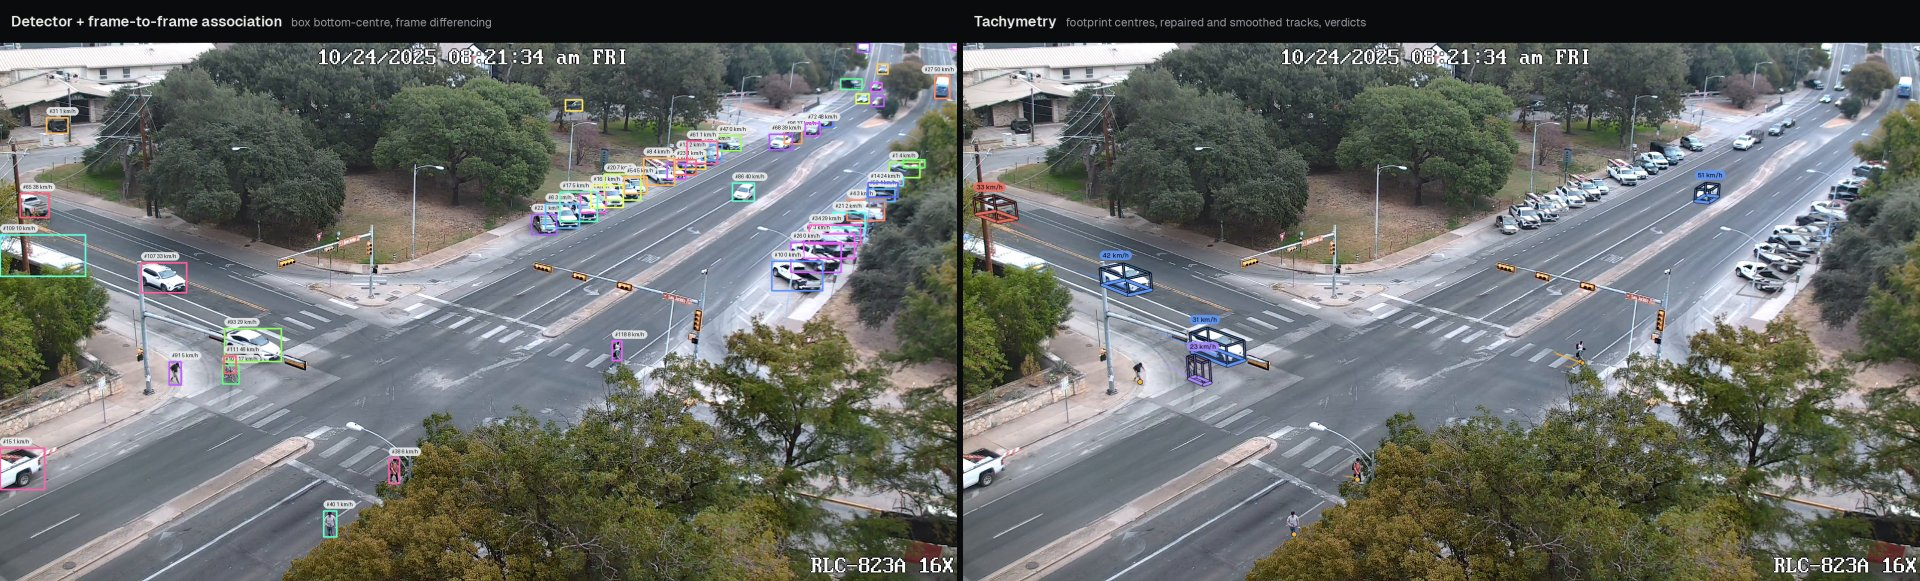
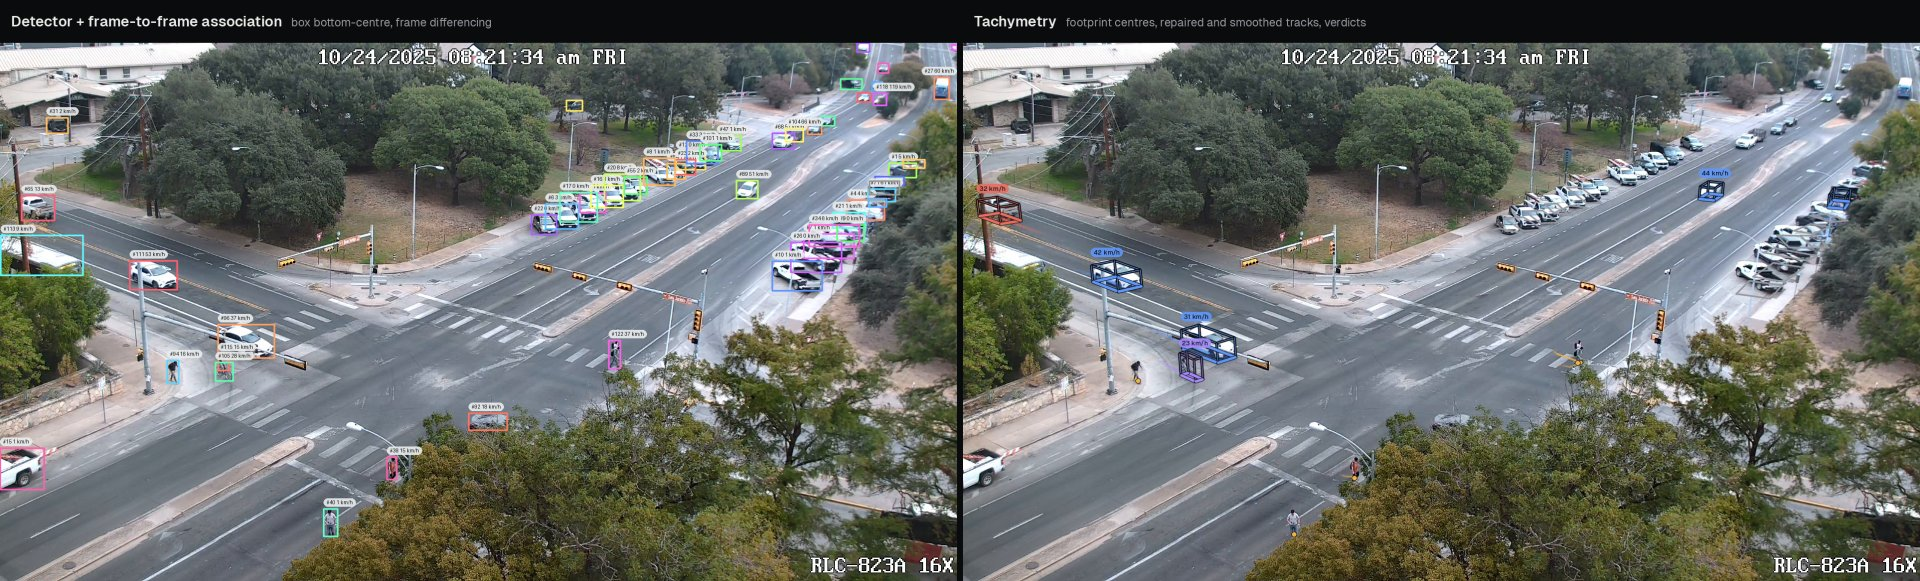
Refresh the documented runs for the class evidence and the silhouette car selection
Sample results, examples, verdict counts, calibration tables and figures are
regenerated with the commands shown in the docs. Dhaka: 208 motorcycles, 45
cars, 21 bicycles and 8 trucks, with 34 riders; intersection-day 27.4 to 27.6 m
from its silhouettes; motorway 8.4 m, with dashes of 2.85 to 3.16 m.

diff --git a/docs/docs/examples/intersection.md b/docs/docs/examples/intersection.md
@@ -30,10 +30,10 @@ print(run.report["timings"])
 ```text
 svbrd-llm-roadside-video-av by Ryan-xiangyu-ut (Hugging Face), CC BY 4.0, https://huggingface.co/datasets/Ryan-xiangyu-ut/svbrd-llm-roadside-video-av
 {'calibration.hfov_deg': 47.5}
-f=2181.8px (hfov 47.5 deg), height=27.21 m, pitch=17.88 deg, roll=-0.01 deg, yaw=134.0 deg, lens=identity
+f=2181.8px (hfov 47.5 deg), height=27.62 m, pitch=17.88 deg, roll=-0.01 deg, yaw=134.0 deg, lens=identity
 auto:fov+vp
-{'tracks': 50, 'by_class': {'person': 8, 'car': 29, 'bus': 2, 'bicycle': 2, 'truck': 9}, 'moving_by_class': {'bus': 2, 'car': 17, 'bicycle': 2, 'person': 7, 'truck': 3}, 'parked_by_class': {'car': 12, 'truck': 6}, 'rejected': {'rider': 2, 'ghost': 2, 'duplicate': 1}, 'vehicle_speed_kmh': {'median': 24.65, 'p85': 34.62, 'max': 58.59}}
-{'detect_s': 55.88, 'calibrate_s': 23.29, 'track_s': 41.34, 'render_s': 24.5, 'total_s': 145.22}
+{'tracks': 49, 'by_class': {'person': 8, 'car': 29, 'bus': 2, 'bicycle': 2, 'truck': 8}, 'moving_by_class': {'bus': 2, 'car': 17, 'bicycle': 2, 'person': 7, 'truck': 3}, 'parked_by_class': {'car': 12, 'truck': 5}, 'rejected': {'rider': 2, 'ghost': 1, 'duplicate': 1}, 'vehicle_speed_kmh': {'median': 24.83, 'p85': 34.91, 'max': 59.32}}
+{'detect_s': 55.1, 'calibrate_s': 24.84, 'track_s': 42.71, 'render_s': 24.81, 'total_s': 147.68}
 ```
 
 The run uses the default detector, SAM 3, whose instance masks give the vehicle footprints ([Vehicle footprints from masks](../guide/footprints.md)) and the metric scale of the calibration. `tachymetry demo` applies the sample's overrides itself; with `tm.track`, the field of view is passed as `calibration__hfov_deg`.
@@ -41,7 +41,7 @@ The run uses the default detector, SAM 3, whose instance masks give the vehicle 
 Calibration:
 
 * *Candidate.* The known field of view (47.5°) and the main ground vanishing point give the orientation (`fov+vp`, [Automatic calibration](../guide/auto-calibration.md)): a camera pitched 17.9° down.
-* *Scale.* The vehicle silhouettes place it 27.2 m above the road. The camera packaged for the five intersection clips, calibrated once, is 27.7 m high; see [Camera calibration](../guide/calibration.md) for the spread between calibrations of one camera.
+* *Scale.* The vehicle silhouettes place it 27.6 m above the road. The camera packaged for the five intersection clips, calibrated once, is 27.7 m high; see [Camera calibration](../guide/calibration.md) for the spread between calibrations of one camera.
 
 The run directory now holds the files described in [Outputs](../guide/outputs.md):
 
@@ -91,33 +91,32 @@ print(counts)
 
 ```text
 state    moving  parked  stationary
-class
+class                              
 bicycle       2       0           0
 bus           2       0           0
 car          17      12           0
 person        7       0           1
-truck         3       6           0
- id  class   verdict                reason
-  7 person     rider  riding two-wheeler 6
- 29 person     ghost             too short
- 33  truck duplicate       duplicate of 23
- 43 person     rider riding two-wheeler 41
- 46    car     ghost             too short
-count    2177.0
-mean       25.2
-std         9.6
-min         3.2
+truck         3       5           0
+ id  class   verdict                          reason
+  7 person     rider bike detection under the person
+ 28 person     ghost                       too short
+ 32  truck duplicate                 duplicate of 22
+ 42 person     rider bike detection under the person
+count    2182.0
+mean       25.4
+std         9.9
+min         3.0
 15%        15.0
-50%        24.6
-85%        34.6
-max        58.6
+50%        24.8
+85%        34.9
+max        59.3
 {'+x': 8, '-x': 2}
 ```
 
 Notes on the result:
 
-* The two riders are the persons on the two bicycles; they are counted once, as cyclists ([Verdicts](../guide/verdicts.md#riders-inferred-cyclists-and-passengers)).
-* Twelve parked cars and six parked trucks are reported with zero speed; they do not enter the speed statistics.
+* The two riders are the persons on the two bicycles: a `bike` detection lies under each of them, and they are counted once, as cyclists ([Verdicts](../guide/verdicts.md#riders-inferred-cyclists-and-passengers)). The bicycles themselves are classed from their `bike` evidence ([class vote](../guide/tracking.md#class-vote)).
+* Twelve parked cars and five parked trucks (pickups) are reported with zero speed; they do not enter the speed statistics.
 * The world frame of an automatic calibration has $+x$ along the best-supported lane-line direction. Without cuboid footprints the origin stays below the camera, so the main road runs along $x$ at $y \approx 41$ to $53$ m in this clip (traffic in $+x$ near 42 m, in $-x$ near 52 m). For counts at a specific location, define the screen line in this frame, or calibrate manually against a georeferenced reference to work in map coordinates ([Manual calibration](../guide/manual-calibration.md)).
 * The spot speeds are samples at 15 Hz, so longer tracks weigh more. For one value per vehicle use `tracks_summary.csv` (`speed_median_kmh`, `speed_p85_kmh`).
 
@@ -137,7 +136,7 @@ print(run.report["timings"], run.summary()["vehicle_speed_kmh"])
 ```
 
 ```text
-{'detect_s': 0.03, 'calibrate_s': 0.01, 'track_s': 40.92, 'total_s': 41.18} {'median': 24.81, 'p85': 34.85, 'max': 57.8}
+{'detect_s': 0.03, 'calibrate_s': 0.01, 'track_s': 41.49, 'total_s': 41.75} {'median': 25.09, 'p85': 35.25, 'max': 59.22}
 ```
 
-A shorter smoothing window follows speed changes faster at the cost of more noise ([Bird's-eye view and speed](../guide/bev-speed.md#speed)); on this clip the median and 85th-percentile vehicle speeds move by 0.16 and 0.23 km/h.
+A shorter smoothing window follows speed changes faster at the cost of more noise ([Bird's-eye view and speed](../guide/bev-speed.md#speed)); on this clip the median and 85th-percentile vehicle speeds move by 0.26 and 0.34 km/h.

diff --git a/docs/docs/limitations.md b/docs/docs/limitations.md
@@ -45,10 +45,10 @@ Detection recall degrades at night. Runs of the default pipeline on two clips of
 
 | Clip | Duration | Detections | Tracks kept | Tracks by class |
 |---|---|---|---|---|
-| `intersection-day` | 31.0 s | 23,443 | 49 | 28 car, 9 truck, 2 bus, 2 bicycle, 8 person |
-| `intersection-night` | 18.5 s | 2,010 | 8 | 8 car |
+| `intersection-day` | 31.0 s | 23,491 | 50 | 30 car, 8 truck, 2 bus, 2 bicycle, 8 person |
+| `intersection-night` | 18.5 s | 2,011 | 8 | 8 car |
 
-Traffic volumes differ between the recordings, so the comparison is indicative only. On the infrared night clip, no pedestrian or cyclist track was kept. Calibrated on its own, the night clip gives a camera 33.4 m high at a pitch of 22.2°, against 27.7 m and 17.9° for the day clip ([Calibration verification](guide/calibration.md#calibration-verification)), because road markings are visible mainly where they are lit. For cameras that record in both conditions, calibrate on daytime footage and pass the camera file to the night runs, as the sample registry does.
+Traffic volumes differ between the recordings, so the comparison is indicative only. On the infrared night clip, no pedestrian or cyclist track was kept. Calibrated on its own, the night clip gives a camera 34.4 m high at a pitch of 22.2°, against 27.4 m and 17.9° for the day clip ([Calibration verification](guide/calibration.md#calibration-verification)), because road markings are visible mainly where they are lit. For cameras that record in both conditions, calibrate on daytime footage and pass the camera file to the night runs, as the sample registry does.
 
 ## Moving, PTZ and re-zoomed cameras
 
@@ -70,7 +70,7 @@ Process straight-down footage with a known camera: pitch 90°, the height from t
 
 ## Mixed traffic and class-dependent scale
 
-The class scheme has six road classes (person, bicycle, car, motorcycle, bus, truck), and regional vehicle types fall outside it. On the straight-down sample, SAM 3's class-evidence prompts label most cycle-rickshaws and auto-rickshaws `motorcycle`, which gives 222 motorcycle tracks against 1 bicycle track. Counts by class and the class-dependent parameters (the person and two-wheeler speed gates, the dimension priors) apply to these vehicles as labelled.
+The class scheme has six road classes (person, bicycle, car, motorcycle, bus, truck), and regional vehicle types fall outside it. On the straight-down sample, cycle-rickshaws and rickshaw vans receive almost no evidence from any class prompt; their car fits stay at the smallest car, so the size rule makes them two-wheelers (18 bicycles, and motorcycles where the `motorcycle` prompt scored them higher than `bike`), and CNG auto-rickshaws with `car` or `van` evidence remain cars ([class vote](guide/tracking.md#class-vote)). The two carriages of a passing train are labelled `truck`. Counts by class and the class-dependent parameters (the person and two-wheeler speed gates, the dimension priors) apply to these vehicles as labelled.
 
 The vehicle-size scale assumes that the `car` class is dominated by passenger cars ([Metric scale](guide/calibration.md#metric-scale)): the silhouette scale fits a rigid passenger-car model, and the cuboid footprint scale a median footprint of 4.6 m by 1.85 m. Where a detector maps other vehicles to `car`, such as three-wheelers of about 2.6 m or microcars, the scale inherits their size, and all distances and speeds are multiplied by the ratio of the model to their dimensions. In such traffic, supply the scale from elsewhere:
 
@@ -122,7 +122,7 @@ A scene with a single marked direction and no vertical structure, such as a stra
 
 ## Per-clip variance of automatic calibration
 
-Automatic calibration of one clip is a single estimate with clip-dependent evidence: visible markings, traffic, lighting. The five intersection samples come from one camera pose; their backgrounds register within 4.2 px, except the infrared night clip at 12.4 px. Calibrated separately with the same 47.5° field of view, they give camera heights from 26.3 to 33.4 m, pitches from 17.6° to 22.2° and rolls from −2.5° to 3.6° ([Calibration verification](guide/calibration.md#calibration-verification)). A height error enters all distances and speeds in proportion. For a fixed camera, calibrate once on the clip with the clearest evidence and pass the camera file to its other clips, as the sample registry does with `assets/cameras/svbrd-intersection.json`; compare speeds between sites only after checking their calibrations.
+Automatic calibration of one clip is a single estimate with clip-dependent evidence: visible markings, traffic, lighting. The five intersection samples come from one camera pose; their backgrounds register within 4.2 px, except the infrared night clip at 12.4 px. Calibrated separately with the same 47.5° field of view, they give camera heights from 26.6 to 34.4 m, pitches from 17.6° to 22.2° and rolls from −2.5° to 3.6° ([Calibration verification](guide/calibration.md#calibration-verification)). A height error enters all distances and speeds in proportion. For a fixed camera, calibrate once on the clip with the clearest evidence and pass the camera file to its other clips, as the sample registry does with `assets/cameras/svbrd-intersection.json`; compare speeds between sites only after checking their calibrations.
 
 ## Runtime of the mask geometry
 

diff --git a/docs/docs/examples/custom-detector.md b/docs/docs/examples/custom-detector.md
@@ -4,7 +4,7 @@ The pipeline accepts object detectors that map frames to boxes in the road-user 
 
 ## The detector contract
 
-A `Detector` is called with a list of BGR `uint8` images (`H × W × 3`, as decoded by OpenCV) and returns one tuple per image, with four elements, or five when it segments:
+A `Detector` is called with a list of BGR `uint8` images (`H × W × 3`, as decoded by OpenCV) and returns one tuple per image, with four elements, five when it segments, or six with class evidence:
 
 | Element | Shape and type | Meaning |
 |---|---|---|
@@ -13,6 +13,7 @@ A `Detector` is called with a list of BGR `uint8` images (`H × W × 3`, as deco
 | `cls` | `(N,)` `int16` | index into `class_names` |
 | `cuboid` | `(N, 8, 3)` `float32` or `None` | projected cuboid corners `x, y, confidence`: corners 0 to 3 on the ground with 0 and 3 forming the front face and 0-1 a long side, corners 4 to 7 above them; NaN for untrusted cuboids |
 | `masks` (optional) | list of `N` entries, or `None` | one instance mask per detection as `(x0, y0, mask)` with a boolean `mask` cropped to the box (`tachymetry.detections.crop_mask` crops a full-frame mask), or `None` for a detection without one |
+| `evidence` (optional) | `(N, E)` `float32` | class evidence per detection, with the column names in the attribute `evidence_names`; with the columns of `tachymetry.detect.sam3.EVIDENCE_COLUMNS`, track classes, riders and passengers are decided as for SAM 3 ([class vote](../guide/tracking.md#class-vote)) |
 
 Set the class attributes `class_names` (use `tachymetry.config.ROAD_CLASSES` so that class priors, super-classes, colours and calibration apply), `provides_cuboids`, `provides_masks` and `name`. Boxes with scores down to `TrackerConfig.low_conf = 0.10` are useful: they extend existing tracks in the second association stage but never start one ([Association](../guide/tracking.md#online-association)).
 
@@ -71,15 +72,15 @@ print(run.report["timings"])
 ```
 
 ```text
-{'tracks': 58, 'by_class': {'car': 37, 'person': 14, 'motorcycle': 1, 'truck': 3, 'bus': 2, 'bicycle': 1}, 'moving_by_class': {'car': 23, 'motorcycle': 1, 'person': 10, 'bus': 2, 'bicycle': 1}, 'parked_by_class': {'car': 14, 'truck': 3}, 'rejected': {'rider': 2, 'duplicate': 22, 'invalid': 1, 'ghost': 5}, 'vehicle_speed_kmh': {'median': 23.89, 'p85': 34.09, 'max': 50.17}}
-{'detect_s': 9.14, 'calibrate_s': 6.24, 'track_s': 5.54, 'total_s': 21.2}
+{'tracks': 57, 'by_class': {'car': 37, 'person': 14, 'motorcycle': 1, 'truck': 2, 'bus': 2, 'bicycle': 1}, 'moving_by_class': {'car': 22, 'motorcycle': 1, 'person': 10, 'bus': 2, 'bicycle': 1}, 'parked_by_class': {'car': 15, 'truck': 2}, 'rejected': {'rider': 2, 'duplicate': 21, 'invalid': 1, 'ghost': 7}, 'vehicle_speed_kmh': {'median': 24.81, 'p85': 35.78, 'max': 50.91}}
+{'detect_s': 9.25, 'calibrate_s': 6.17, 'track_s': 5.5, 'total_s': 21.12}
 ```
 
 Three details of this example matter in general:
 
-* **Camera.** A box-only detector provides no instance masks, so automatic calibration has no vehicle-silhouette scale ([Detectors without masks](../guide/detection.md#detectors-without-masks)). The example reuses the camera that the default pipeline calibrated in the [end-to-end example](intersection.md); `calibrate_s` is then only the background estimation. Alternatively give a metric cue, e.g. `cfg.calibration.scale = "height=27.2"`, or calibrate manually.
+* **Camera.** A box-only detector provides no instance masks, so automatic calibration has no vehicle-silhouette scale ([Detectors without masks](../guide/detection.md#detectors-without-masks)). The example reuses the camera that the default pipeline calibrated in the [end-to-end example](intersection.md); `calibrate_s` is then only the background estimation. Alternatively give a metric cue, e.g. `cfg.calibration.scale = "height=27.6"`, or calibrate manually.
 * **Cache key.** The detection cache key is computed from `cfg.detector` and `rate_hz`, not from the detector object. A distinct `detector.name`, or a fresh output directory, prevents the pipeline from reusing detections of another detector cached in the same directory.
-* **Duplicates.** torchvision applies non-maximum suppression per label, so one vehicle often yields overlapping `car` and `truck` boxes. The tracker gates by super-class, so both boxes enter one association problem, and the duplicate verdict removed 22 tracks in this run ([Verdicts](../guide/verdicts.md#duplicates)). Cross-label suppression inside the detector (for example `nms_by_group`) removes them earlier.
+* **Duplicates.** torchvision applies non-maximum suppression per label, so one vehicle often yields overlapping `car` and `truck` boxes. The tracker gates by super-class, so both boxes enter one association problem, and the duplicate verdict removed 21 tracks in this run ([Verdicts](../guide/verdicts.md#duplicates)). Cross-label suppression inside the detector (for example `nms_by_group`) removes them earlier.
 
 Without masks, vehicle centres come from the box-contact model with class priors instead of the mask geometry; [Vehicle footprints from masks](../guide/footprints.md#synthetic-occlusion) compares the two paths on a synthetic occlusion. A detector that segments returns the optional fifth element, and its vehicles then take the mask path.
 

diff --git a/docs/docs/samples.md b/docs/docs/samples.md
@@ -75,19 +75,19 @@ One run per clip with the default configuration (SAM 3, 15 Hz) and the camera or
 
 | Name | Camera | Tracks | Tracks by class | Median speed (km/h) | p85 speed (km/h) |
 |---|---|---|---|---|---|
-| `intersection-day` | f = 2182 px, height 27.7 m, pitch 17.9° | 49 | 28 car, 9 truck, 2 bus, 2 bicycle, 8 person | 24.8 | 35.0 |
-| `intersection-day-2` | shared camera | 49 | 35 car, 7 truck, 5 bus, 2 person | 31.1 | 43.1 |
-| `intersection-day-3` | shared camera | 117 | 59 car, 17 truck, 3 bus, 3 bicycle, 35 person | 25.7 | 41.8 |
+| `intersection-day` | f = 2182 px, height 27.4 m, pitch 17.9° | 50 | 30 car, 8 truck, 2 bus, 2 bicycle, 8 person | 24.7 | 34.5 |
+| `intersection-day-2` | shared camera | 49 | 34 car, 7 truck, 6 bus, 2 person | 31.1 | 43.1 |
+| `intersection-day-3` | shared camera | 115 | 57 car, 18 truck, 3 bus, 3 bicycle, 34 person | 25.7 | 41.8 |
 | `intersection-turn` | shared camera | 32 | 27 car, 2 truck, 3 person | 20.3 | 27.6 |
 | `intersection-night` | shared camera | 8 | 8 car | 50.1 | 65.6 |
-| `motorway-overpass` | f = 1131 px, height 8.1 m, pitch 11.8° | 70 | 61 car, 9 truck | 59.6 | 76.3 |
-| `dhaka-roundabout` | f = 2825 px, height 111.7 m, pitch 90° | 395 | 121 car, 13 truck, 222 motorcycle, 1 bicycle, 38 person | 11.9 | 15.9 |
+| `motorway-overpass` | f = 1131 px, height 8.4 m, pitch 11.8° | 70 | 61 car, 9 truck | 61.8 | 78.7 |
+| `dhaka-roundabout` | f = 2825 px, height 111.7 m, pitch 90° | 314 | 45 car, 8 truck, 208 motorcycle, 21 bicycle, 32 person | 10.8 | 16.6 |
 
-The shared intersection camera is the automatic calibration of `intersection-day`: f = 2182 px, 27.7 m high, pitched 17.9° down, roll −0.18°.
+The shared intersection camera is an earlier automatic calibration of `intersection-day`: f = 2182 px, 27.7 m high, pitched 17.9° down, roll −0.18°. The clip's current automatic calibration is 1 % lower ([one camera, several clips](guide/calibration.md#one-camera-several-clips)).
 
-- **Truck labels.** The truck counts of the intersection clips come from SAM 3's class-evidence prompts. In `intersection-day`, all nine truck tracks are pickups, one of them towing a trailer.
-- **Two-wheelers in mixed traffic.** In the straight-down clip, cycle-rickshaws and auto-rickshaws are mostly labelled motorcycle ([Limitations](limitations.md#mixed-traffic-and-class-dependent-scale)).
-- **Motorway speeds.** Moving vehicles on the motorway have a median speed of 59.6 km/h. An earlier cuboid-based calibration of this clip, without a known field of view, gave about 95 km/h; under that camera the dashes of the same chain grow from 3.35 m to 6.28 m along the road (spread 0.165). The dash check is what exposes such a calibration.
+- **Truck labels.** Vehicle classes come from SAM 3's class-evidence prompts, voted over each track ([class vote](guide/tracking.md#class-vote)). The `truck` prompt scores pickups higher than `car` (0.7 to 0.9 against 0.5 to 0.7), so the eight truck tracks of `intersection-day` are seven pickups and a utility trailer.
+- **Two-wheelers in mixed traffic.** In the straight-down clip, 175 motorcycles are classed from `motorcycle` evidence. Cycle-rickshaws and rickshaw vans receive almost no evidence from any prompt; their car fits stay at the smallest car, so the size rule makes them two-wheelers (18 bicycles, 33 motorcycles). Three bicycles are cyclists inferred from fast person tracks, and 34 persons are riders on two-wheelers ([Limitations](limitations.md#mixed-traffic-and-class-dependent-scale)).
+- **Motorway speeds.** Moving vehicles on the motorway have a median speed of 61.8 km/h. Under the selected camera (8.4 m high), the five dashes of the checked chain measure 2.85 to 3.16 m with periods of 8.9 to 9.4 m, the 3 m dashes and 6 m gaps of the markings. An earlier cuboid-based calibration of this clip, without a known field of view, gave about 95 km/h; under that camera the dashes of the same chain grow from 3.35 m to 6.28 m along the road (spread 0.165). The dash check is what exposes such a calibration.
 
 <figure markdown="span">
   ![A divided expressway seen from an overpass with tracked vehicles and speeds](../media/gallery/motorway-overpass.jpg)

diff --git a/docs/docs/examples/batch.md b/docs/docs/examples/batch.md
@@ -25,16 +25,16 @@ tachymetry run videos/ --out runs --devices cuda:1 --camera intersection.camera.
 ```
 
 ```text
-Tachymetry: 2 of 2 videos processed in 117 s
+Tachymetry: 2 of 2 videos processed in 116 s
 ┏━━━━━━━━━━━━━━━━━━━━━━━┳━━━━━━━━┳━━━━━━━━┳━━━━━━━━━━━━━━━━━┳━━━━━━━━┳━━━━━━━━━━━━━┳━━━━━━━━━━━━━┳━━━━━━━━━┓
 ┃ video                 ┃ status ┃ tracks ┃ moving vehicles ┃ parked ┃ pedestrians ┃ median km/h ┃ seconds ┃
 ┡━━━━━━━━━━━━━━━━━━━━━━━╇━━━━━━━━╇━━━━━━━━╇━━━━━━━━━━━━━━━━━╇━━━━━━━━╇━━━━━━━━━━━━━╇━━━━━━━━━━━━━╇━━━━━━━━━┩
-│ intersection-day.mp4  │ done   │     49 │              22 │     17 │           7 │       24.83 │  115.14 │
-│ intersection-turn.mp4 │ done   │     32 │              11 │     18 │           2 │       20.33 │   51.49 │
+│ intersection-day.mp4  │ done   │     49 │              22 │     17 │           7 │       24.83 │  113.94 │
+│ intersection-turn.mp4 │ done   │     32 │              11 │     18 │           2 │       20.33 │    50.6 │
 └───────────────────────┴────────┴────────┴─────────────────┴────────┴─────────────┴─────────────┴─────────┘
 ```
 
-With free memory well above 18 GB (two SAM 3 workers of 9 GB each), `plan_workers` started two worker processes on the GPU, one per clip, each with its own SAM 3 model. The batch took 117 s of wall time for 167 s of per-video processing (detection, tracking and export; no rendering, and no calibration since the camera is given). Without `--devices`, all available GPUs are used. The output root holds one directory per video, named after the file stem, plus the batch summaries. With a given camera, `camera.json` is a copy of it and no calibration report or preview is written:
+With free memory well above 18 GB (two SAM 3 workers of 9 GB each), `plan_workers` started two worker processes on the GPU, one per clip, each with its own SAM 3 model. The batch took 116 s of wall time for 165 s of per-video processing (detection, tracking and export; no rendering, and no calibration since the camera is given). Without `--devices`, all available GPUs are used. The output root holds one directory per video, named after the file stem, plus the batch summaries. With a given camera, `camera.json` is a copy of it and no calibration report or preview is written:
 
 ```text
 runs/
@@ -46,8 +46,8 @@ runs/
 
 ```text
 video,status,out_dir,tracks,vehicles_moving,pedestrians,median_speed_kmh,seconds,device,error
-videos/intersection-day.mp4,done,runs/intersection-day,49,22,7,24.83,115.14,cuda:1,
-videos/intersection-turn.mp4,done,runs/intersection-turn,32,11,2,20.33,51.49,cuda:1,
+videos/intersection-day.mp4,done,runs/intersection-day,49,22,7,24.83,113.94,cuda:1,
+videos/intersection-turn.mp4,done,runs/intersection-turn,32,11,2,20.33,50.6,cuda:1,
 ```
 
 Add `--render` for an `overlay.mp4` per video, `--formats csv,json,geojson` for more exports, and `--set KEY=VALUE` (repeatable) for configuration fields ([Configuration](../guide/configuration.md)).
@@ -100,7 +100,7 @@ print(samples.groupby(["video", "class"]).track_id.nunique().unstack(fill_value=
 intersection-turn      32          27.7095      47.5       20.33
 class              bicycle  bus  car  person  truck
 video
-intersection-day         2    2   28       8      9
+intersection-day         2    2   29       8      8
 intersection-turn        0    0   27       3      2
 ```
 

diff --git a/docs/docs/guide/calibration.md b/docs/docs/guide/calibration.md
@@ -221,7 +221,7 @@ The check constrains only the horizon. When all dashed lines are parallel, all c
 
 On the motorway sample, one chain of five dashes is found, between 23 and 58 m from the camera. Its regularity under two cameras:
 
-- **Automatic camera** ($f$ = 1131 px from the 59° field of view, pitch 11.8°, roll −1.5°, height 8.1 m from the silhouette scale): $\rho$ = 0.019. The dashes measure 2.76 to 3.07 m with periods of 8.71 to 9.00 m.
+- **Automatic camera** ($f$ = 1131 px from the 59° field of view, pitch 11.8°, roll −1.5°, height 8.4 m from the silhouette scale): $\rho$ = 0.019. The dashes measure 2.85 to 3.16 m with periods of 8.90 to 9.38 m, close to the 3 m dashes and 9 m periods of the markings.
 - **Earlier calibration from UrbanOmniDetect-2 cuboids** ($f$ = 2072 px, pitch 9.8°, height 15.3 m): $\rho$ = 0.165. The same dashes grow from 3.35 m at the far end to 6.28 m at the near end.
 
 Changing the pitch of the automatic camera by ±2° gives $\rho$ = 0.065 and 0.086; changing its field of view to 50° or 68° at the same pitch gives 0.096 and 0.059. All of these remain below the warning threshold.
@@ -247,13 +247,13 @@ Each clip was then calibrated separately with `calibrate_auto(background, detect
 
 | Clip | Selected | Height (m) | Pitch (deg) | Roll (deg) | Silhouette cost | Without the field of view: height (m), $f$ (px) |
 |---|---|---|---|---|---|---|
-| `intersection-day` | `fov+vp` | 27.71 | 17.89 | −0.18 | 0.70 | 18.68, 1777 |
-| `intersection-day-2` | `fov+vp` | 26.62 | 17.63 | 0.23 | 0.69 | 19.74, 1836 |
-| `intersection-day-3` | `fov+vp` | 30.89 | 18.84 | 1.48 | 0.42 | 17.74, 1733 |
-| `intersection-turn` | `fov+vp` | 26.30 | 20.66 | 3.60 | 0.84 | 19.55, 1768 |
-| `intersection-night` | `lines` ($f$ = 2197 px) | 33.39 | 22.20 | −2.47 | 0.28 | 33.39, 2197 |
+| `intersection-day` | `fov+vp` | 27.44 | 17.89 | −0.18 | 0.75 | 18.54, 1777 |
+| `intersection-day-2` | `fov+vp` | 26.57 | 17.63 | 0.23 | 0.41 | 19.70, 1836 |
+| `intersection-day-3` | `fov+vp` | 30.91 | 18.84 | 1.48 | 0.37 | 17.65, 1733 |
+| `intersection-turn` | `fov+vp` | 30.40 | 20.66 | 3.60 | 0.82 | 19.64, 1768 |
+| `intersection-night` | `lines` ($f$ = 2197 px) | 34.40 | 22.20 | −2.47 | 0.26 | 34.40, 2197 |
 
-With the same field of view, the heights span 26.3 to 33.4 m, the pitches 17.6° to 22.2° and the rolls −2.5° to 3.6° for one camera pose. Without the field of view, the `lines` candidate of the daytime clips gives focal lengths 16 to 21 % shorter and heights of 17.7 to 19.7 m. The samples therefore share one camera. `intersection-day` is calibrated with its 47.5° field of view. The other four load the packaged camera `tachymetry/assets/cameras/svbrd-intersection.json` ($f$ = 2182 px, height 27.7 m, pitch 17.9°, roll −0.18°) through `tachymetry.data.sample_camera`.
+With the same field of view, the heights span 26.6 to 34.4 m, the pitches 17.6° to 22.2° and the rolls −2.5° to 3.6° for one camera pose. Without the field of view, the `lines` candidate of the daytime clips gives focal lengths 16 to 21 % shorter and heights of 17.7 to 19.7 m. The samples therefore share one camera. `intersection-day` is calibrated with its 47.5° field of view. The other four load the packaged camera `tachymetry/assets/cameras/svbrd-intersection.json` ($f$ = 2182 px, height 27.7 m, pitch 17.9°, roll −0.18°) through `tachymetry.data.sample_camera`, an earlier calibration of `intersection-day` whose lane widths (3.43 to 3.45 m) and dash lengths (2.7 to 3.1 m) match the markings; the current calibration of the clip is 1 % lower.
 
 <figure markdown="span">
   ![Automatic calibration of the public intersection clip](../../media/calib_auto.jpg)

diff --git a/docs/docs/examples/drone.md b/docs/docs/examples/drone.md
@@ -110,13 +110,14 @@ print(run.report["timings"])
 DRINF: Dhaka Road Intersection Nadir Footage by Hamim Mahmud (Hugging Face, doi:10.57967/hf/10301); 30 s excerpt from 2:20, CC BY 4.0, https://huggingface.co/datasets/hamimmahmud0/DRINF
 f=2825.2px (hfov 68.4 deg), height=111.70 m, pitch=90.00 deg, roll=0.00 deg, yaw=90.0 deg, lens=identity
 ground sampling distance 3.95 cm/px
-{'motorcycle': 222, 'car': 121, 'bicycle': 1, 'person': 38, 'truck': 13}
-{'detect_s': 46.98, 'calibrate_s': 17.89, 'track_s': 104.52, 'total_s': 170.09}
+{'motorcycle': 208, 'car': 45, 'bicycle': 21, 'person': 32, 'truck': 8}
+{'detect_s': 47.47, 'calibrate_s': 17.28, 'track_s': 100.95, 'total_s': 166.56}
 ```
 
-On one NVIDIA RTX PRO 6000 GPU, SAM 3 detection took 47 s for the 360 analysed frames. The background median and the camera took 18 s, and tracking 105 s, most of it the mask geometry of 134 vehicle tracks on the CPU. The class counts are the detector's labels for accepted tracks.
+On one NVIDIA RTX PRO 6000 GPU, SAM 3 detection took 47 s for the 360 analysed frames. The background median and the camera took 17 s, and tracking 101 s, most of it the mask geometry of the vehicle tracks on the CPU. The class counts are those of the accepted tracks ([class vote](../guide/tracking.md#class-vote)).
 
-- **Rickshaws.** SAM 3's class-evidence prompts label most cycle-rickshaws and auto-rickshaws of this traffic `motorcycle`, which gives 222 motorcycle tracks against 1 bicycle track ([Limitations](../limitations.md#mixed-traffic-and-class-dependent-scale)).
+- **Two-wheelers and rickshaws.** 175 motorcycles are classed from their `motorcycle` evidence. Cycle-rickshaws and rickshaw vans receive almost no evidence from any class prompt; their car fits stay at the smallest car, and the size rule makes them two-wheelers (18 bicycles, and motorcycles where `motorcycle` scored them above `bike`). CNG auto-rickshaws with `car` or `van` evidence are cars ([Limitations](../limitations.md#mixed-traffic-and-class-dependent-scale)).
+- **Riders.** 34 person tracks are riders, 31 of them on a tracked two-wheeler, and 3 fast person tracks without a two-wheeler become cyclists ([Verdicts](../guide/verdicts.md#riders-inferred-cyclists-and-passengers)).
 - **Small road users.** In steep views, persons and two-wheelers are placed at their mask centroid projected at a class height, not at their lowest mask point (`hygiene.steep_view_deg`, 60° to 80° of depression). Their lowest point is a foot or a wheel, far from the centre seen from above.
 
 ## Command line
@@ -152,7 +153,7 @@ for w in caught:
 
 ```text
 auto:lines f=10074.4px (hfov 21.6 deg), height=1.00 m, pitch=2.78 deg, roll=0.17 deg, yaw=-4.7 deg, lens=identity {'scale': 'relative'}
-warning: car silhouettes do not fit this camera (cost 2.01)
+warning: car silhouettes do not fit this camera (cost 2.07)
 warning: dashed lane markings change length along the road under this camera (spread 0.47 in log units): its pitch or focal length is likely wrong
 ```
 

diff --git a/docs/docs/guide/tracking.md b/docs/docs/guide/tracking.md
@@ -78,7 +78,7 @@ $$
 summed over all detections of the track, those without a match included, so a hesitant far-field match counts little and a confident near-field one dominates. The slots of the vote are two-wheeler, `bus`, `truck`, `car`, `van` and `suv` (ties in this order); a detection's two-wheeler score is the larger of its `bike` and `motorcycle` evidence, since the `bike` prompt alone misses many motorcycles in some views (in the straight-down sample, `motorcycle` evidence is found on 51 % of the vehicle detections and `bike` evidence on 17 %). The class is the argmax slot, with `car`, `van` and `suv` folded into `car` and a two-wheeler a motorcycle when $S_\text{motorcycle} > S_\text{bike}$ and a bicycle otherwise, provided the largest share reaches 0.20 (`CLASS_SHARE_MIN`). Below it the evidence is too weak (far-field-only tracks), and two fallbacks apply in turn:
 
 1. **bike flag**: when a confident `bike` detection lies within more than half of the track's detections (`bike_cover` evidence, at least 4 detections), the track is a two-wheeler;
-2. **size**: otherwise the track is fitted as a car, and its fitted size decides: a fit that reaches 6.7 m, close to the car length bound, is fitted again as a truck and kept as one if that fit is longer than 8.0 m; a fit that stays at the smallest car (length at most 3.15 m and width at most 1.65 m, the lower bounds of the car box) is smaller than any car, and the track becomes a two-wheeler (`size_small`: a motorcycle when its `motorcycle` share exceeds its `bike` share, else a bicycle). In the straight-down sample, 56 tracks have no usable evidence; their car fits stay at 3.05 × 1.55 m, and they are cycle-rickshaws, rickshaw vans and motorcycles, which become two-wheelers (18 bicycles, 33 motorcycles) instead of cars.
+2. **size**: otherwise the track is fitted as a car, and its fitted size decides: a fit that reaches 6.7 m, close to the car length bound, is fitted again as a truck and kept as one if that fit is longer than 8.0 m; a fit that stays at the smallest car (length at most 3.15 m and width at most 1.65 m, the lower bounds of the car box) is smaller than any car, and the track becomes a two-wheeler (`size_small`: a motorcycle when its `motorcycle` share exceeds its `bike` share, else a bicycle). In the straight-down sample, 55 tracks have no usable evidence. The car fits of 51 of them stay at about 3.05 × 1.55 m; they are cycle-rickshaws, rickshaw vans and motorcycles, and become two-wheelers (18 bicycles, 33 motorcycles) instead of cars. The other 4 remain cars.
 
 `meta["class_rule"]` (`evidence`, `bike_flag`, `size` or `size_small`, and `inferred` for [inferred cyclists](verdicts.md#riders-inferred-cyclists-and-passengers)) and `meta["class_shares"]` record the decision; they are exported as `class_rule` and `class_shares` ([Outputs](outputs.md)).
 

diff --git a/docs/docs/guide/auto-calibration.md b/docs/docs/guide/auto-calibration.md
@@ -171,7 +171,7 @@ where the areas are counted on the mask crop down-sampled by 4 and the last term
 
 **Search.** The objective is evaluated on 31 factors spaced logarithmically from 0.3 to 300, which covers the heights of unit-height candidates. It is then minimised by 14 golden-section steps on $\log s$ between the neighbours of the best grid factor. The result is rejected (`CalibrationError`) when fewer than 6 tracklets exist or the final cost exceeds 1.2. `details["scale"]` reports the factor, the cost and the numbers of masks and tracklets. On the public intersection clip (47.5° field of view, detections at 5 Hz) the factor was 27.26 from 98 masks of 27 tracklets, cost 0.62.
 
-**What silhouettes do not determine.** The criterion constrains the scale well, but the focal length and the pitch only weakly: over the family of cameras that share a horizon it prefers narrower fields of view (`calib/from_silhouettes.py`). Silhouettes therefore never choose the orientation; it comes from the vanishing points, the known field of view, GeoCalib or correspondences, and the silhouette scale inherits its errors. On the intersection samples, the same silhouettes scaled the `lines` cameras ($f$ = 1733 to 1836 px) to heights of 17.7 to 19.7 m, against 26.3 to 30.9 m under the 47.5° field of view ([one camera, several clips](calibration.md#one-camera-several-clips)).
+**What silhouettes do not determine.** The criterion constrains the scale well, but the focal length and the pitch only weakly: over the family of cameras that share a horizon it prefers narrower fields of view (`calib/from_silhouettes.py`). Silhouettes therefore never choose the orientation; it comes from the vanishing points, the known field of view, GeoCalib or correspondences, and the silhouette scale inherits its errors. On the intersection samples, the same silhouettes scaled the `lines` cameras ($f$ = 1733 to 1836 px) to heights of 17.7 to 19.7 m, against 26.6 to 30.9 m under the 47.5° field of view ([one camera, several clips](calibration.md#one-camera-several-clips)).
 
 ## Metric scale from car footprints
 

diff --git a/docs/docs/guide/outputs.md b/docs/docs/guide/outputs.md
@@ -115,7 +115,7 @@ Format `tachymetry.camera/1` (`Camera.to_dict`):
 
 NumPy archive of the `DetectionSet`: `frame` (M,), `time` (M,), `xyxy` (M, 4), `score` (M,), `cls` (M,) indices into `class_names`, `cuboid` (M, 8, 3) corner `x, y, confidence` with NaN for untrusted cuboids (cuboid detectors only), `processed_frames`, `image_size`, `fps` and `meta` (the detector description). With SAM 3, `evidence` (M, 9) float16 holds the class evidence of each detection, with the column names in `evidence_names` ([SAM 3 prompts](detection.md#sam-3-prompts)).
 
-Instance masks of segmenting detectors are stored as a `MaskStore` (`detections.MaskStore`): each mask is cropped to its box (plus 2 pixels) and bit-packed with `np.packbits`. The archive then holds `mask_bits` (concatenated packed bytes), `mask_offset` (M,) byte offset of each mask, or −1 for a detection without one, `mask_origin` (M, 2) the crop's top-left pixel `(x0, y0)`, and `mask_shape` (M, 2) its `(h, w)`. `DetectionSet.masks.crop(i)` returns `(x0, y0, mask)` and `masks.full(i, image_size)` the full-frame mask. `detections.json` holds the cache key and the detector description. For the public sample clip with SAM 3: 23,443 detections in 465 processed frames, all with masks, in 10.1 MB of packed mask bits.
+Instance masks of segmenting detectors are stored as a `MaskStore` (`detections.MaskStore`): each mask is cropped to its box (plus 2 pixels) and bit-packed with `np.packbits`. The archive then holds `mask_bits` (concatenated packed bytes), `mask_offset` (M,) byte offset of each mask, or −1 for a detection without one, `mask_origin` (M, 2) the crop's top-left pixel `(x0, y0)`, and `mask_shape` (M, 2) its `(h, w)`. `DetectionSet.masks.crop(i)` returns `(x0, y0, mask)` and `masks.full(i, image_size)` the full-frame mask. `detections.json` holds the cache key and the detector description. For the public sample clip with SAM 3: 23,491 detections in 465 processed frames, all with masks, in 10.1 MB of packed mask bits.
 
 ## Python access
 

diff --git a/docs/docs/guide/detection.md b/docs/docs/guide/detection.md
@@ -68,7 +68,7 @@ RF-DETR resizes each frame to a square without preserving the aspect ratio, as i
 
 The gain comes from small, distant and densely parked vehicles. In an earlier run of the same comparison, an input of 576 × 1008 that keeps the 16:9 aspect ratio found fewer than the 1008 square.
 
-Score scales differ between back-ends. On `intersection-day`, the median score of the vehicle detections kept at the default thresholds was 0.82 for SAM 3 (two-level prompts; 20,742 vehicle detections of the default run), and in an earlier comparison 0.30 for RF-DETR-Seg L, 0.35 for RF-DETR L and 0.67 for UrbanOmniDetect-2 X. The share scoring at least 0.5 was 0.95, 0.19, 0.25 and 0.66. RF-DETR scores parked and distant vehicles mostly between 0.15 and 0.5, hence its [score profile](#score-profiles). The tracking thresholds (`TrackerConfig.high_conf`, `FilterConfig.ghost_min_score`, `FilterConfig.ghost_parked_score`) refer to these scores.
+Score scales differ between back-ends. On `intersection-day`, the median score of the vehicle detections kept at the default thresholds was 0.81 for SAM 3 (two-level prompts; 21,001 vehicle detections of the default run), and in an earlier comparison 0.30 for RF-DETR-Seg L, 0.35 for RF-DETR L and 0.67 for UrbanOmniDetect-2 X. The share scoring at least 0.5 was 0.95, 0.19, 0.25 and 0.66. RF-DETR scores parked and distant vehicles mostly between 0.15 and 0.5, hence its [score profile](#score-profiles). The tracking thresholds (`TrackerConfig.high_conf`, `FilterConfig.ghost_min_score`, `FilterConfig.ghost_parked_score`) refer to these scores.
 
 ## Class taxonomy
 

diff --git a/docs/docs/guide/verdicts.md b/docs/docs/guide/verdicts.md
@@ -66,14 +66,16 @@ The third rule targets parked-vehicle hallucinations: shadows, road markings, si
 
 ## Counts on the sample clip
 
-On the public sample clip (`intersection-day`, default configuration with SAM 3 and the sample's field of view), `summary.json` reports 163 raw tracks, 9 stitched fragments and the following verdicts:
+On the public sample clip (`intersection-day`, default configuration with SAM 3 and the sample's field of view), `summary.json` reports 168 raw tracks, 11 stitched fragments and the following verdicts:
 
 | Verdict | Tracks |
 |---|---|
-| `ok` | 50 |
+| `ok` | 49 |
 | `rider` | 2 |
-| `ghost` | 2 |
+| `ghost` | 1 |
 | `duplicate` | 1 |
+
+Both riders are cyclists with a `bike` detection under them. On the straight-down sample (`dhaka-roundabout`), 34 of the person tracks are riders, 31 of them on a tracked two-wheeler and 3 by their speed, and 3 more become inferred cyclists.
 
 The rejected tracks and their reasons are listed in the [end-to-end example](../examples/intersection.md). The contribution of stitching and verdicts on synthetic traffic with ground truth (fragments per object, false tracks) is the last row of the [benchmarks](../benchmarks.md).
 
